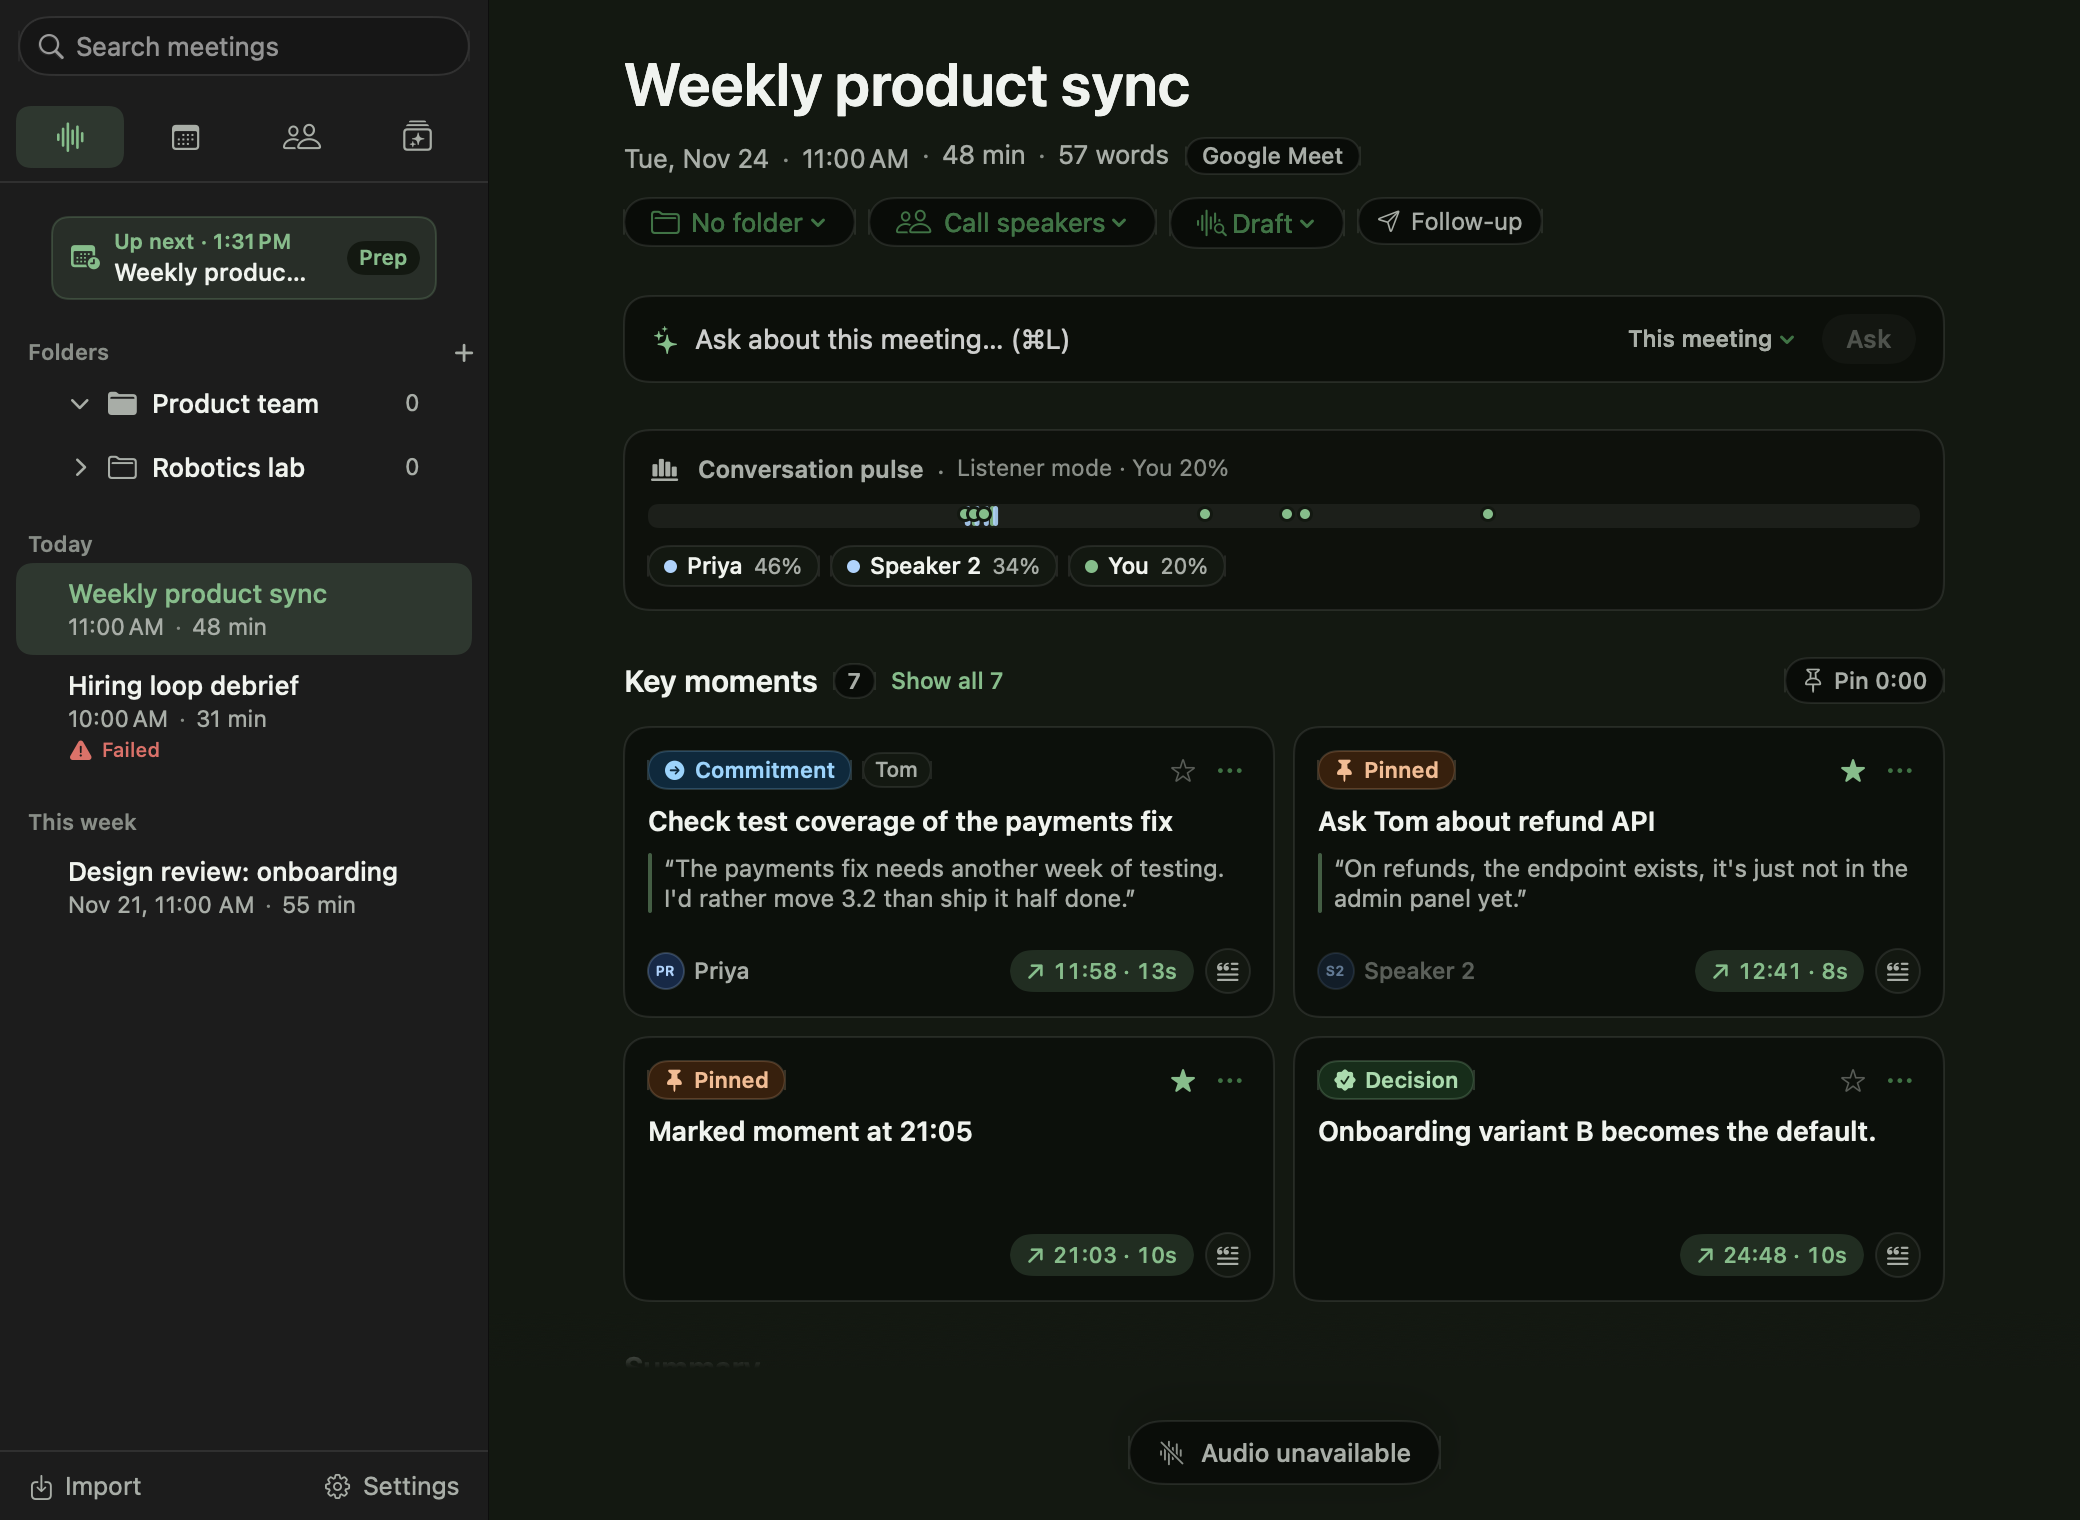
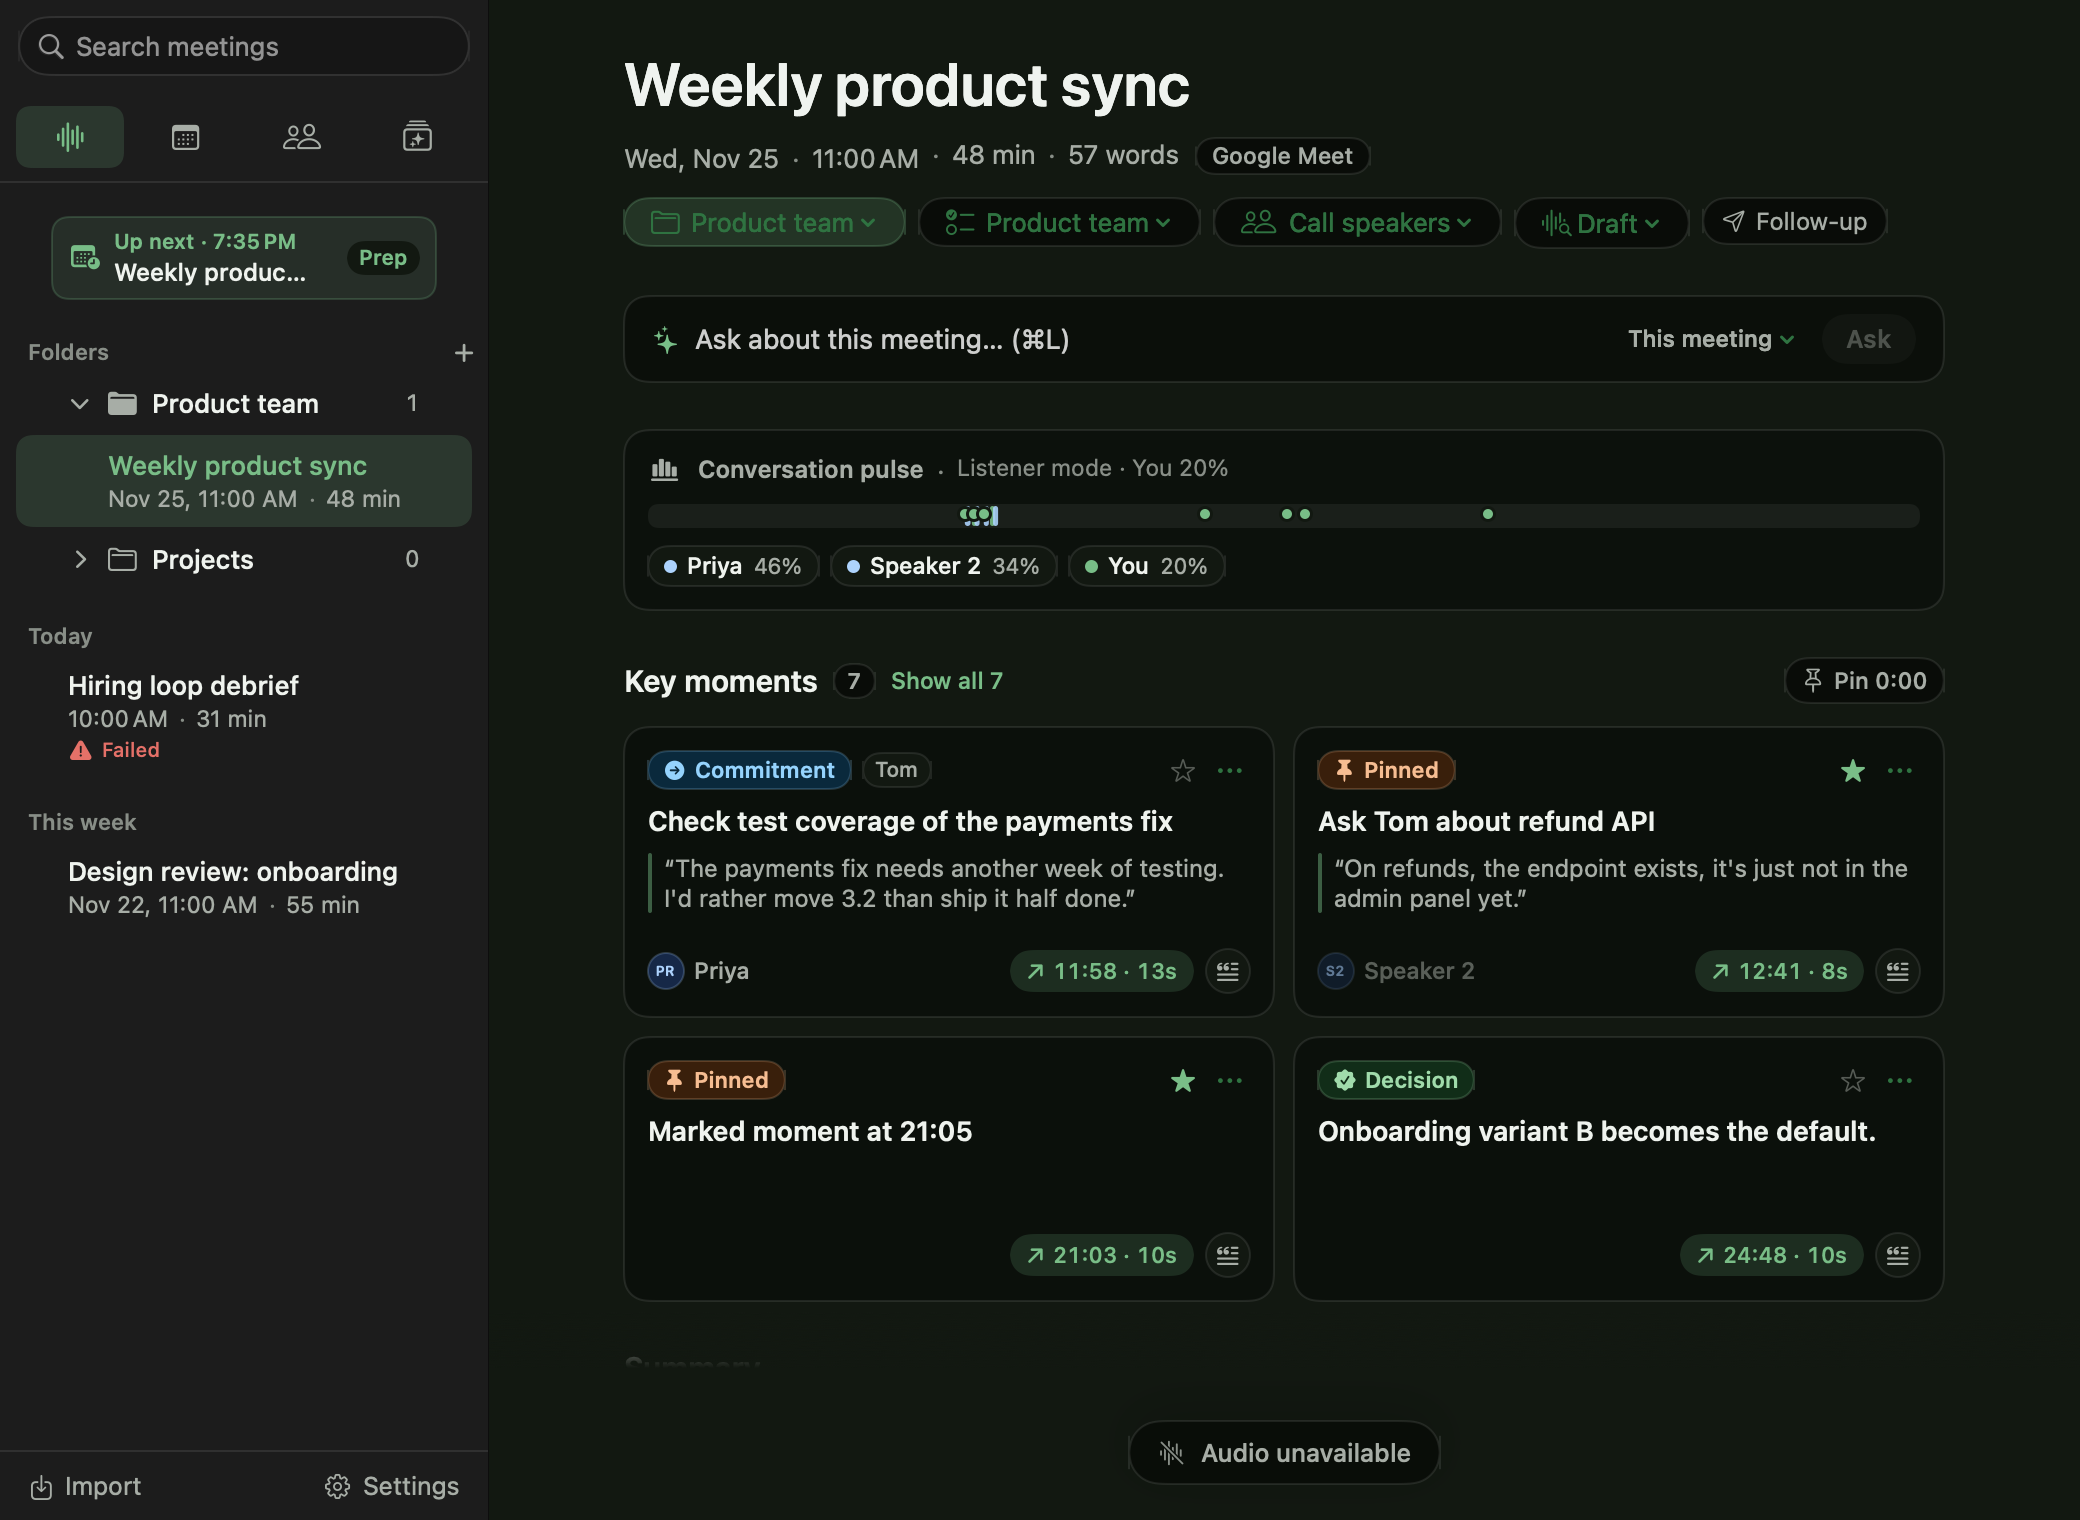
Use generic Apple Reminders list creation and update meeting screenshots

diff --git a/ReMeet/UI/Settings/SettingsRoot.swift b/ReMeet/UI/Settings/SettingsRoot.swift
@@ -379,10 +379,7 @@ private struct RemindersPane: View {
     @State private var accessDenied = RemindersSyncService.accessDenied
     @State private var syncStatus: String?
     @State private var isSyncingNow = false
-
-    private var hasWorkList: Bool {
-        model.reminders.listNamed("Work") != nil
-    }
+    @State private var newListName = ""
 
     var body: some View {
         Form {
@@ -441,13 +438,18 @@ private struct RemindersPane: View {
                         }
                     }
 
-                    if !hasWorkList {
-                        Button("Create \u{201C}Work\u{201D} List & Set as Default") {
-                            if let created = model.reminders.createList(named: "Work") {
+                    HStack(spacing: 8) {
+                        TextField("New list name (e.g. Work)", text: $newListName)
+                        Button("Create & Use") {
+                            let trimmed = newListName.trimmingCharacters(in: .whitespacesAndNewlines)
+                            guard !trimmed.isEmpty else { return }
+                            if let created = model.reminders.createList(named: trimmed) {
                                 defaultListID = created.id
                                 defaultListName = created.title
+                                newListName = ""
                             }
                         }
+                        .disabled(newListName.trimmingCharacters(in: .whitespacesAndNewlines).isEmpty)
                     }
                 }
 

diff --git a/ReMeet/Services/RemindersSyncService.swift b/ReMeet/Services/RemindersSyncService.swift
@@ -103,13 +103,6 @@ final class RemindersSyncService {
                 return a.title.localizedCaseInsensitiveCompare(b.title) == .orderedAscending
             }
         availableLists = lists
-
-        // First-time smart default: if a "Work" list already exists and no default was saved yet, select it.
-        if UserDefaults.standard.string(forKey: SettingsKey.defaultRemindersListID) == nil,
-           let research = lists.first(where: { $0.title.caseInsensitiveCompare("Work") == .orderedSame }) {
-            UserDefaults.standard.set(research.id, forKey: SettingsKey.defaultRemindersListID)
-            UserDefaults.standard.set(research.title, forKey: SettingsKey.defaultRemindersListName)
-        }
     }
 
     func defaultListID() -> String? {
